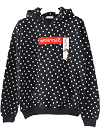
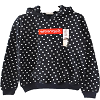
I changed clothes images

diff --git a/project/Function.py b/project/Function.py
@@ -166,7 +166,7 @@ def Decision_mask(Clothes_name,gray_mask):
     elif (Clothes_type == 'stripe'and color =='beige'):
         ret, mask = cv2.threshold(gray_mask, 252, 255, cv2.THRESH_BINARY_INV)
     elif (Clothes_type == 'dot'and color =='black'):
-        ret, mask = cv2.threshold(gray_mask, 250, 255, cv2.THRESH_BINARY_INV)
+        ret, mask = cv2.threshold(gray_mask, 10, 255, cv2.THRESH_BINARY)
     elif (Clothes_type == 'dot'and color =='gray'):
         ret, mask = cv2.threshold(gray_mask, 245, 255, cv2.THRESH_BINARY_INV)
     elif (Clothes_type == 'dot'and color =='white'):
